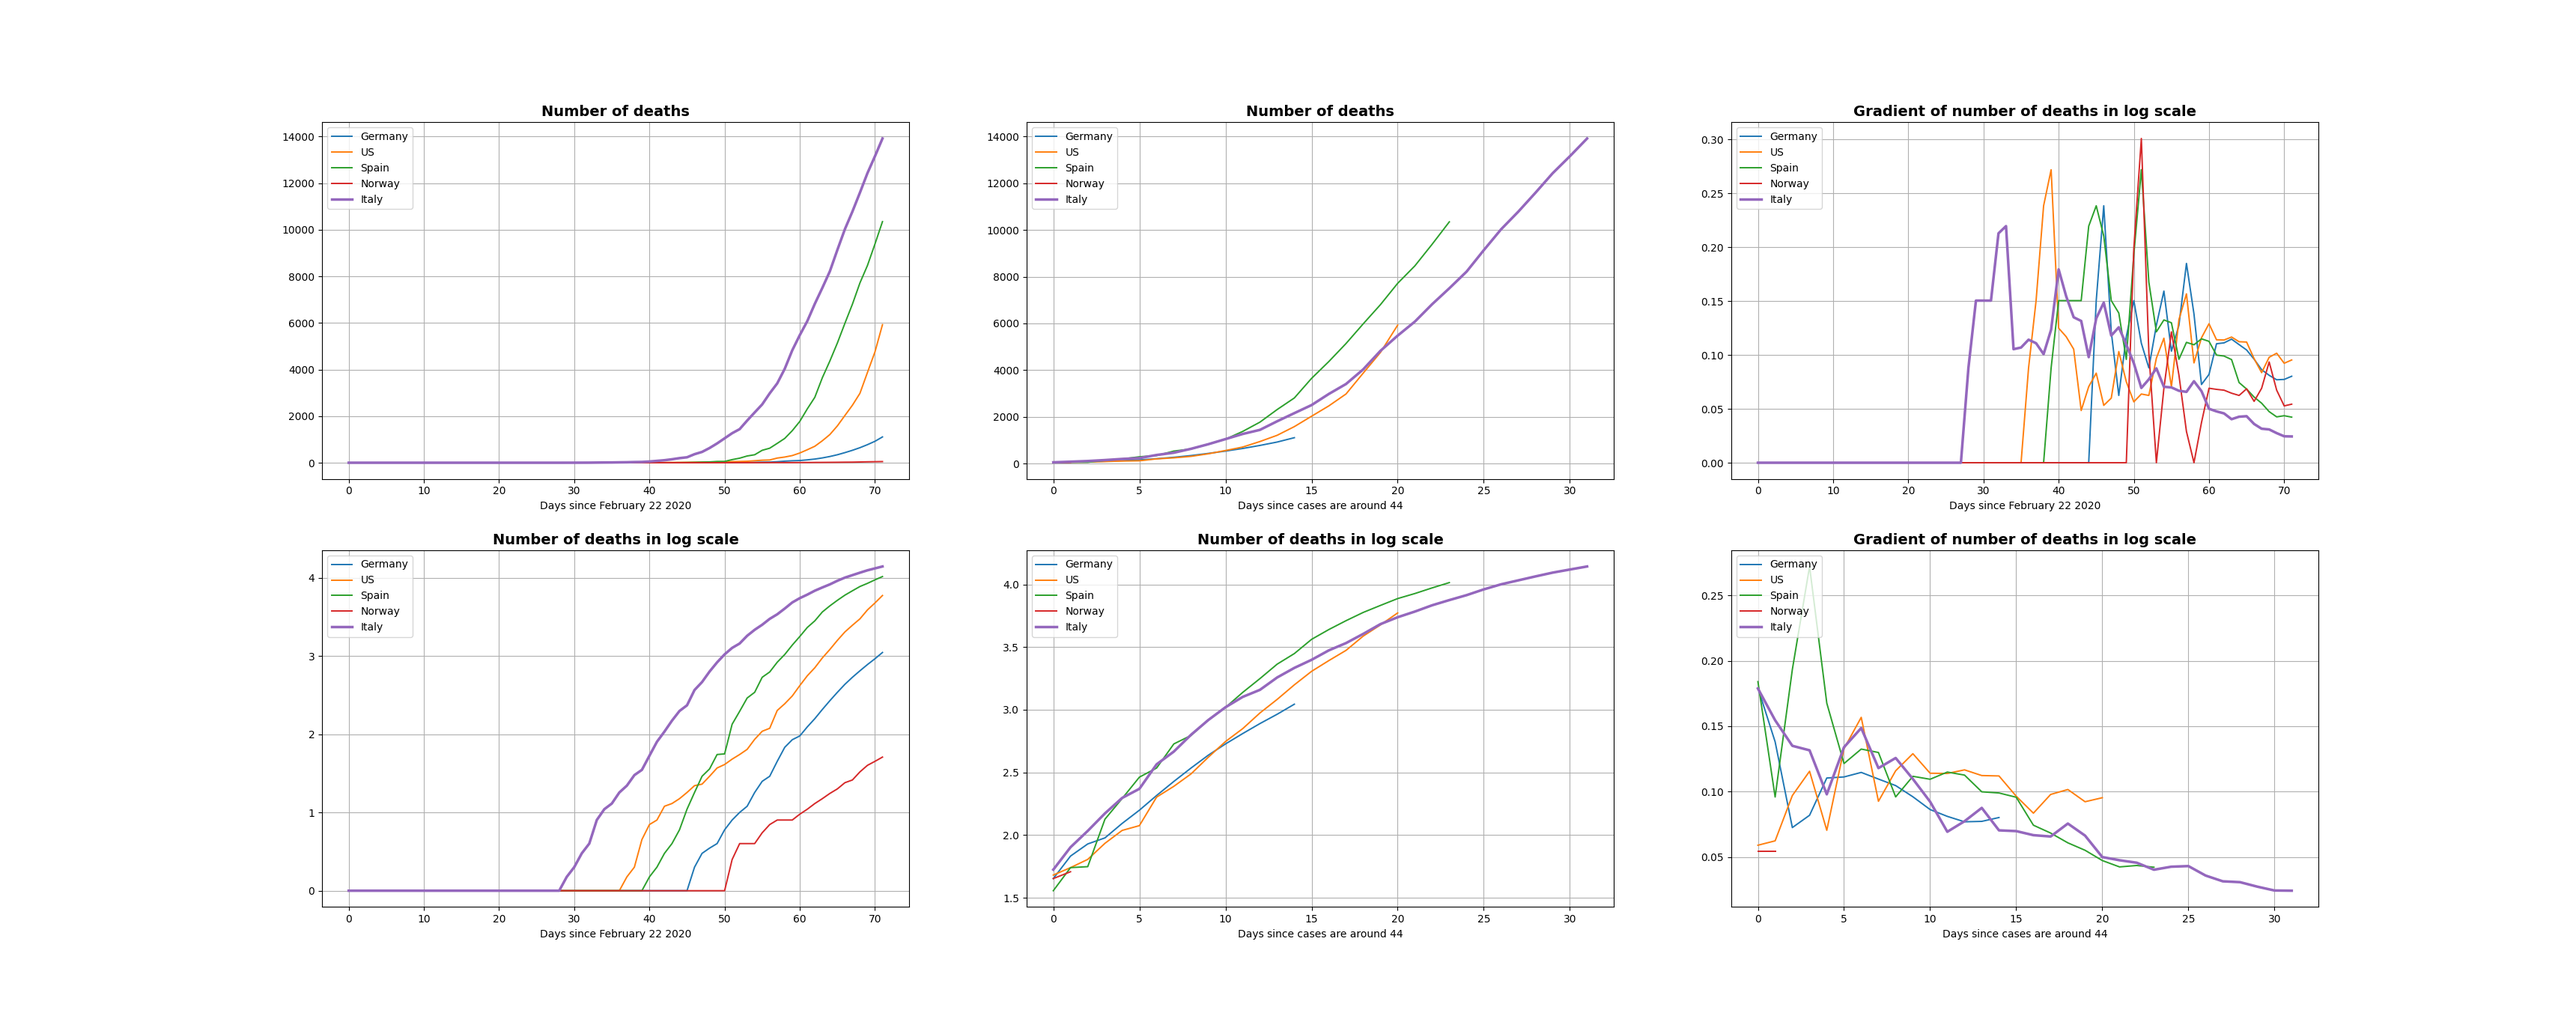
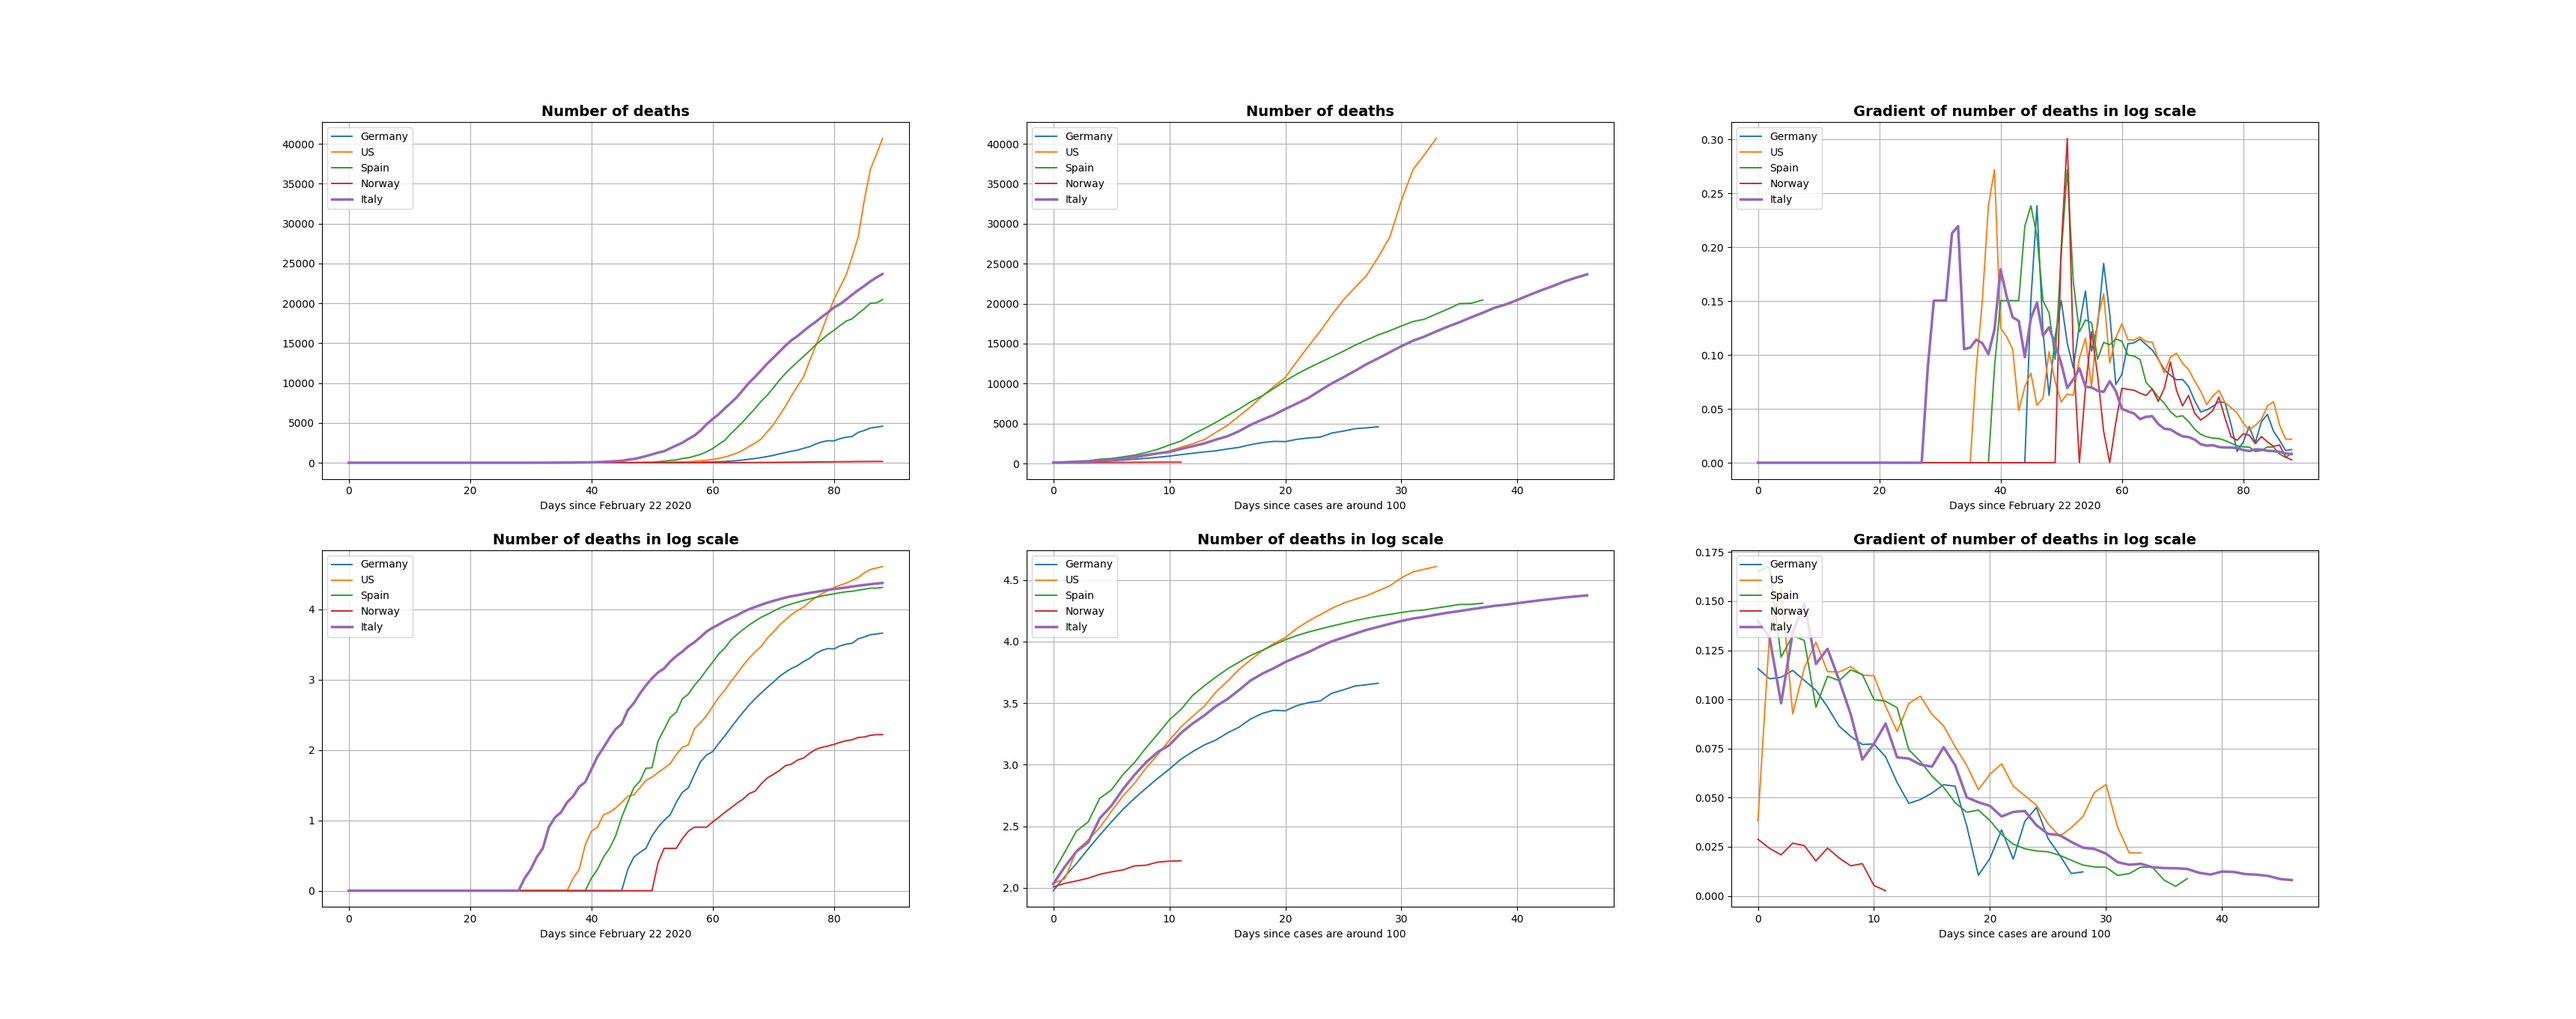
Updated graphs

diff --git a/README.md b/README.md
@@ -20,7 +20,7 @@ You can include other countries or provinces, if available, by just adding the n
 * ```python run_countries.py Japan```
 * ```python run_italy.py VE```
 
-## Results as of April 2nd 2020
+## Results as of April 19th 2020
 
 ### COUNTRIES
 #### Cases
